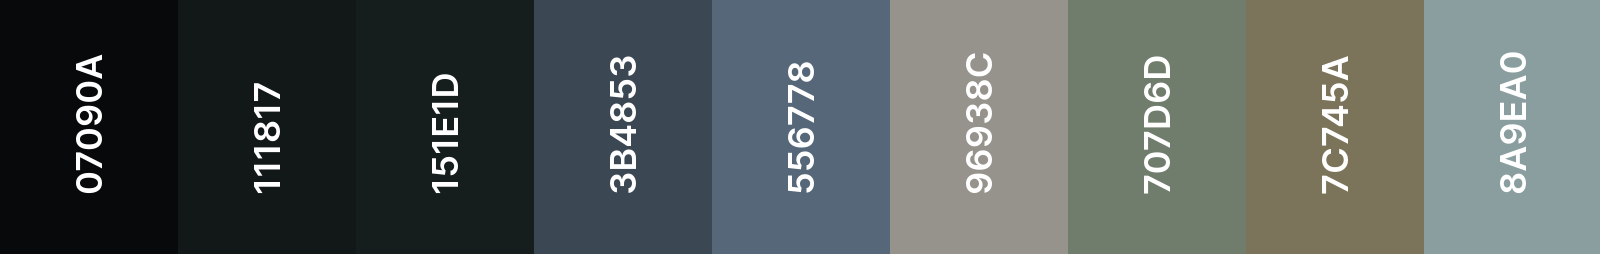
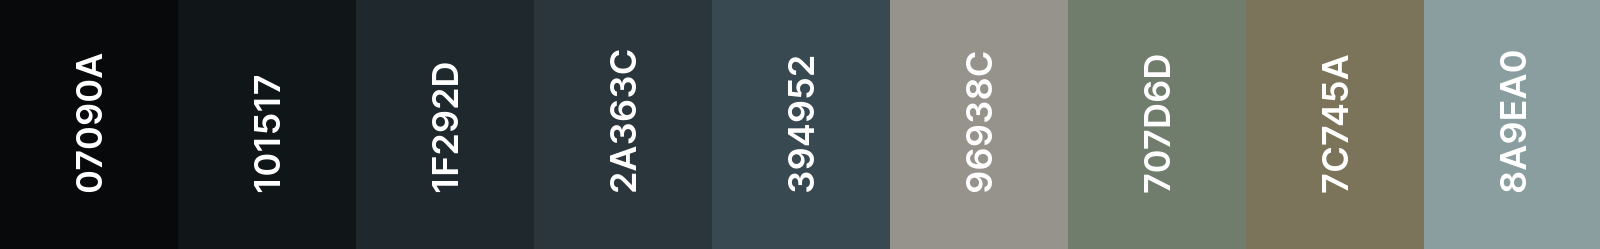
feat(peanut): update palette color ordering

diff --git a/README.md b/README.md
@@ -8,7 +8,7 @@ highly opinionated distributions.
 
 ![Palette](./screenshots/palette.png)
 
-https://coolors.co/07090a-111817-151e1d-3b4853-556778-96938c-707d6d-7c745a-8a9ea0
+https://coolors.co/07090a-101517-1f292d-2a363c-394952-96938c-707d6d-7c745a-8a9ea0
 
 ## Screenshots
 
